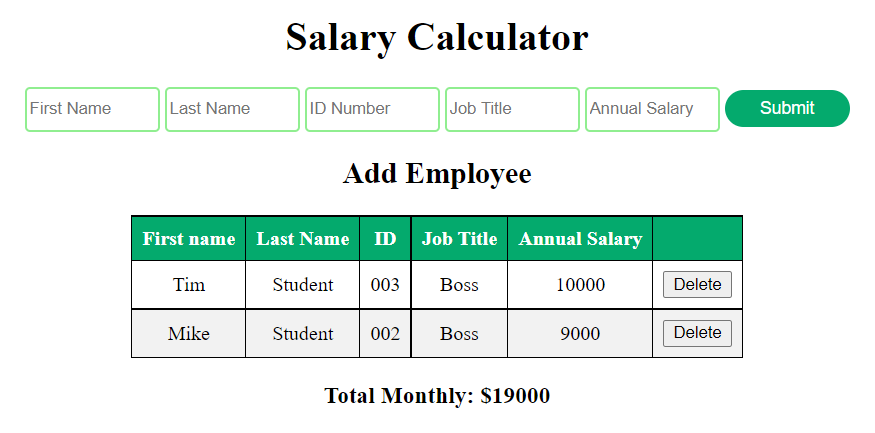
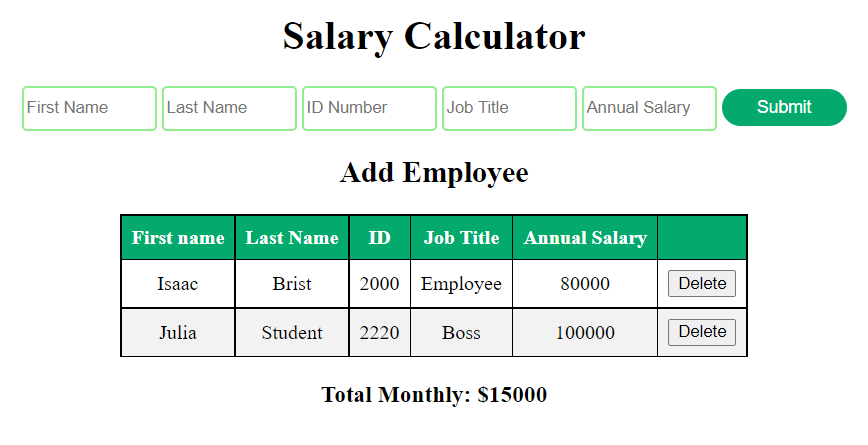
I forgot to divide the annual salary by 12. So I added that functionality in to the submitClickHandler so that the monthly cost is appropriately reflected. I also added a Math.round to obtain a whole number.

diff --git a/client.js b/client.js
@@ -23,7 +23,7 @@ function submitClickHandler() {
   <td class ='table-row'> <button id="delete">Delete</button</td>`);
   // add annual salary to total monthly costs and append to the DOM
 
-  monthlyCounter += Number($('#annual-salary-in').val());
+  monthlyCounter += Math.round(annualSalaryInput / 12);
   $('.monthly-counter').empty();
   $('.monthly-counter').append(monthlyCounter);
   $('input').val('');
